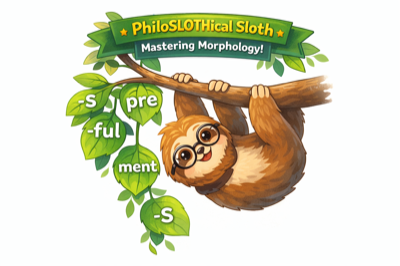
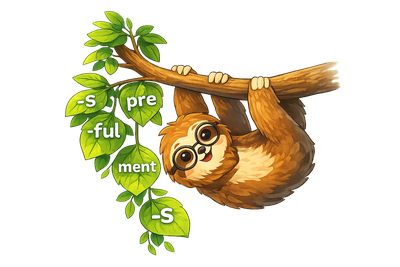
Multiple UI updates: new mascot, title, font, session layout, mic toggle
Landing page:
- Replace sloth image with new transparent PNG
- Title → "Multisyllable Word Detective" with Fredoka font
- Remove "PhiloSLOTHical Sloth" subtitle
- Update page metadata title

Session page:
- Example sentence moved into green strip (replaces definition)
- Definition moved to bottom behind "🔍 Uncover the Meaning" button
- Covered by default, reveals on click, can re-cover

Mic / ReadAloud:
- Tap once to start recording
- Tap again while recording to stop (returns to idle)

Changed region(s): [[0.15, 0.0301, 0.87, 0.9624]]

diff --git a/src/app/session/page.tsx b/src/app/session/page.tsx
@@ -36,9 +36,12 @@ function SessionInner() {
   // ── Chunk mode: null = hidden, "sound" or "morpheme" = panel open ──
   const [chunkMode, setChunkMode] = useState<ChunkMode | null>(null);
 
-  // ── Meaning panel ──
+  // ── Meaning panel (BONUS quiz) ──
   const [meaningOpen, setMeaningOpen] = useState(false);
   const [meaningAnswered, setMeaningAnswered] = useState(false);
+
+  // ── Uncover the meaning (definition reveal) ──
+  const [meaningCovered, setMeaningCovered] = useState(true);
 
   // ── Progress ──
   const [progress, setProgress] = useState<SessionProgress>(defaultProgress());
@@ -75,6 +78,7 @@ function SessionInner() {
     setMeaningOpen(false);
     setMeaningAnswered(false);
     setPracticedThisCard(false);
+    setMeaningCovered(true);
   }, [cardIndex]);
 
   // ── Handlers ──
@@ -193,17 +197,14 @@ function SessionInner() {
           {isTricky && <span className="tricky-indicator" aria-label="Marked as tricky">⭐ Tricky</span>}
         </div>
 
-        {/* ── Word + sentence ── */}
+        {/* ── Word (no sentence here anymore) ── */}
         <div style={{ textAlign: "center", marginBottom: "var(--space-3)" }}>
           <p className="word-display" aria-label={`Word: ${currentCard.word}`}>
             {currentCard.word}
           </p>
-          <p className="example-sentence" style={{ marginTop: "var(--space-2)" }}>
-            &ldquo;{currentCard.example_sentence}&rdquo;
-          </p>
         </div>
 
-        {/* ── Definition (always visible) ── */}
+        {/* ── Example sentence in green strip ── */}
         <div style={{
           background: "#f0faf4",
           border: "1.5px solid #a5d6a7",
@@ -212,11 +213,11 @@ function SessionInner() {
           marginBottom: "var(--space-3)",
           textAlign: "center",
         }}>
-          <span style={{ fontSize: "0.68rem", fontWeight: 700, textTransform: "uppercase", letterSpacing: "0.08em", color: "#2e7d32", display: "block", marginBottom: "2px" }}>
-            What it means
+          <span style={{ fontSize: "0.68rem", fontWeight: 700, textTransform: "uppercase", letterSpacing: "0.08em", color: "#2e7d32", display: "block", marginBottom: "4px" }}>
+            Example
           </span>
-          <p style={{ fontSize: "var(--text-sm)", color: "var(--color-text-primary)", fontWeight: 600, lineHeight: 1.4 }}>
-            {currentCard.student_friendly_meaning}
+          <p style={{ fontSize: "var(--text-sm)", color: "var(--color-text-primary)", fontStyle: "italic", lineHeight: 1.5 }}>
+            &ldquo;{currentCard.example_sentence}&rdquo;
           </p>
         </div>
 
@@ -346,6 +347,63 @@ function SessionInner() {
                 onResult={handleMeaningResult}
               />
             </section>
+          )}
+        </div>
+
+        {/* ── Uncover the Meaning (definition reveal) ── */}
+        <div style={{
+          marginTop: "var(--space-3)",
+          borderTop: "2px dashed #a5d6a7",
+          paddingTop: "var(--space-3)",
+          textAlign: "center",
+        }}>
+          {meaningCovered ? (
+            <button
+              onClick={() => setMeaningCovered(false)}
+              style={{
+                display: "inline-flex",
+                alignItems: "center",
+                gap: "var(--space-2)",
+                padding: "10px 22px",
+                background: "linear-gradient(135deg, #52b788, #2d6a4f)",
+                color: "#fff",
+                border: "none",
+                borderRadius: "var(--radius-pill)",
+                fontFamily: "var(--font-ui)",
+                fontSize: "var(--text-sm)",
+                fontWeight: 800,
+                cursor: "pointer",
+                boxShadow: "0 3px 10px rgba(45,106,79,0.30)",
+                transition: "transform 120ms ease",
+              }}
+              onMouseEnter={(e) => { e.currentTarget.style.transform = "scale(1.04)"; }}
+              onMouseLeave={(e) => { e.currentTarget.style.transform = "scale(1)"; }}
+            >
+              🔍 Uncover the Meaning
+            </button>
+          ) : (
+            <div>
+              <div style={{
+                background: "#f0faf4",
+                border: "1.5px solid #a5d6a7",
+                borderRadius: "var(--radius-md)",
+                padding: "var(--space-3) var(--space-4)",
+                marginBottom: "var(--space-2)",
+              }}>
+                <span style={{ fontSize: "0.68rem", fontWeight: 700, textTransform: "uppercase", letterSpacing: "0.08em", color: "#2e7d32", display: "block", marginBottom: "4px" }}>
+                  What it means
+                </span>
+                <p style={{ fontSize: "var(--text-sm)", color: "var(--color-text-primary)", fontWeight: 600, lineHeight: 1.4 }}>
+                  {currentCard.student_friendly_meaning}
+                </p>
+              </div>
+              <button
+                onClick={() => setMeaningCovered(true)}
+                style={{ background: "none", border: "none", fontSize: "0.72rem", color: "var(--color-text-muted)", cursor: "pointer", textDecoration: "underline" }}
+              >
+                Cover it back
+              </button>
+            </div>
           )}
         </div>
 

diff --git a/src/components/ReadAloudButton.tsx b/src/components/ReadAloudButton.tsx
@@ -30,6 +30,7 @@ function MicIcon({ active }: { active: boolean }) {
 
 export default function ReadAloudButton({ word }: ReadAloudButtonProps) {
   const { state, transcript, supported, start, reset } = useRecognition(word);
+  // reset() stops the mic and returns to idle — used for tap-to-stop
 
   // No auto-start — user taps the button to begin recording
 
@@ -42,25 +43,30 @@ export default function ReadAloudButton({ word }: ReadAloudButtonProps) {
     );
   }
 
-  // ── Listening ──
+  // ── Listening — tap again to stop ──
   if (state === "listening") {
     return (
-      <div style={{
-        display: "flex",
-        alignItems: "center",
-        gap: "var(--space-3)",
-        padding: "var(--space-3) var(--space-4)",
-        background: "#fff8e1",
-        border: "2px solid #ffcc80",
-        borderRadius: "var(--radius-lg)",
-        fontSize: "var(--text-sm)",
-        fontWeight: 700,
-        color: "#e65100",
-        animation: "pulse 1.2s ease-in-out infinite",
-      }}>
+      <button
+        onClick={reset}
+        aria-label="Stop recording"
+        style={{
+          display: "flex",
+          alignItems: "center",
+          gap: "var(--space-3)",
+          padding: "var(--space-3) var(--space-4)",
+          background: "#fff8e1",
+          border: "2px solid #ffcc80",
+          borderRadius: "var(--radius-lg)",
+          fontSize: "var(--text-sm)",
+          fontWeight: 700,
+          color: "#e65100",
+          cursor: "pointer",
+          animation: "pulse 1.2s ease-in-out infinite",
+        }}
+      >
         <MicIcon active={true} />
-        🎤 Read it aloud now!
-      </div>
+        🎤 Recording… tap to stop
+      </button>
     );
   }
 

diff --git a/src/app/page.tsx b/src/app/page.tsx
@@ -81,25 +81,16 @@ export default function HomePage() {
         <div style={{ textAlign: "left" }}>
           <h1
             style={{
-              fontSize: "var(--text-lg)",
-              fontWeight: 800,
-              color: "var(--color-brand-dark)",
-              lineHeight: 1.2,
-              marginBottom: "var(--space-1)",
-            }}
-          >
-            Morphology &amp; Multisyllable Words
-          </h1>
-          <p
-            style={{
-              fontSize: "var(--text-xs)",
+              fontFamily: "var(--font-display)",
+              fontSize: "var(--text-xl)",
               fontWeight: 700,
-              color: "var(--color-brand)",
+              color: "var(--color-brand-dark)",
+              lineHeight: 1.15,
               marginBottom: "var(--space-2)",
             }}
           >
-            🦥 with the PhiloSLOTHical Sloth
-          </p>
+            Multisyllable Word Detective
+          </h1>
           <p
             style={{
               fontSize: "0.85rem",
@@ -247,7 +238,7 @@ export default function HomePage() {
             onClick={handleStart}
             aria-label={`Start a ${focus} session`}
           >
-            Start Session 🦥
+            Start Session
             <svg
               xmlns="http://www.w3.org/2000/svg"
               width="20"

diff --git a/src/app/layout.tsx b/src/app/layout.tsx
@@ -2,7 +2,7 @@ import type { Metadata } from "next";
 import "./globals.css";
 
 export const metadata: Metadata = {
-  title: "Morphology and Multisyllable Words",
+  title: "Multisyllable Word Detective",
   description:
     "A dyslexia-friendly morphology trainer to practise roots, prefixes, and suffixes.",
 };
@@ -14,6 +14,11 @@ export default function RootLayout({
 }) {
   return (
     <html lang="en">
+      <head>
+        <link rel="preconnect" href="https://fonts.googleapis.com" />
+        <link rel="preconnect" href="https://fonts.gstatic.com" crossOrigin="anonymous" />
+        <link href="https://fonts.googleapis.com/css2?family=Fredoka:wght@600;700&display=swap" rel="stylesheet" />
+      </head>
       <body>{children}</body>
     </html>
   );

diff --git a/src/app/globals.css b/src/app/globals.css
@@ -34,6 +34,7 @@
   --color-focus-ring: #2d6a4f;
 
   /* Typography */
+  --font-display: "Fredoka", system-ui, sans-serif;    /* playful rounded font for titles */
   --font-body: "Georgia", "Times New Roman", serif;   /* serifs aid letter distinction */
   --font-ui: system-ui, -apple-system, sans-serif;
   --font-mono: "Courier New", monospace;

diff --git a/src/hooks/useRecognition.ts b/src/hooks/useRecognition.ts
@@ -148,5 +148,5 @@ export function useRecognition(targetWord: string) {
   // eslint-disable-next-line react-hooks/exhaustive-deps
   }, [targetWord]);
 
-  return { state, transcript, supported, start, reset };
+  return { state, transcript, supported, start, stop, reset };
 }
